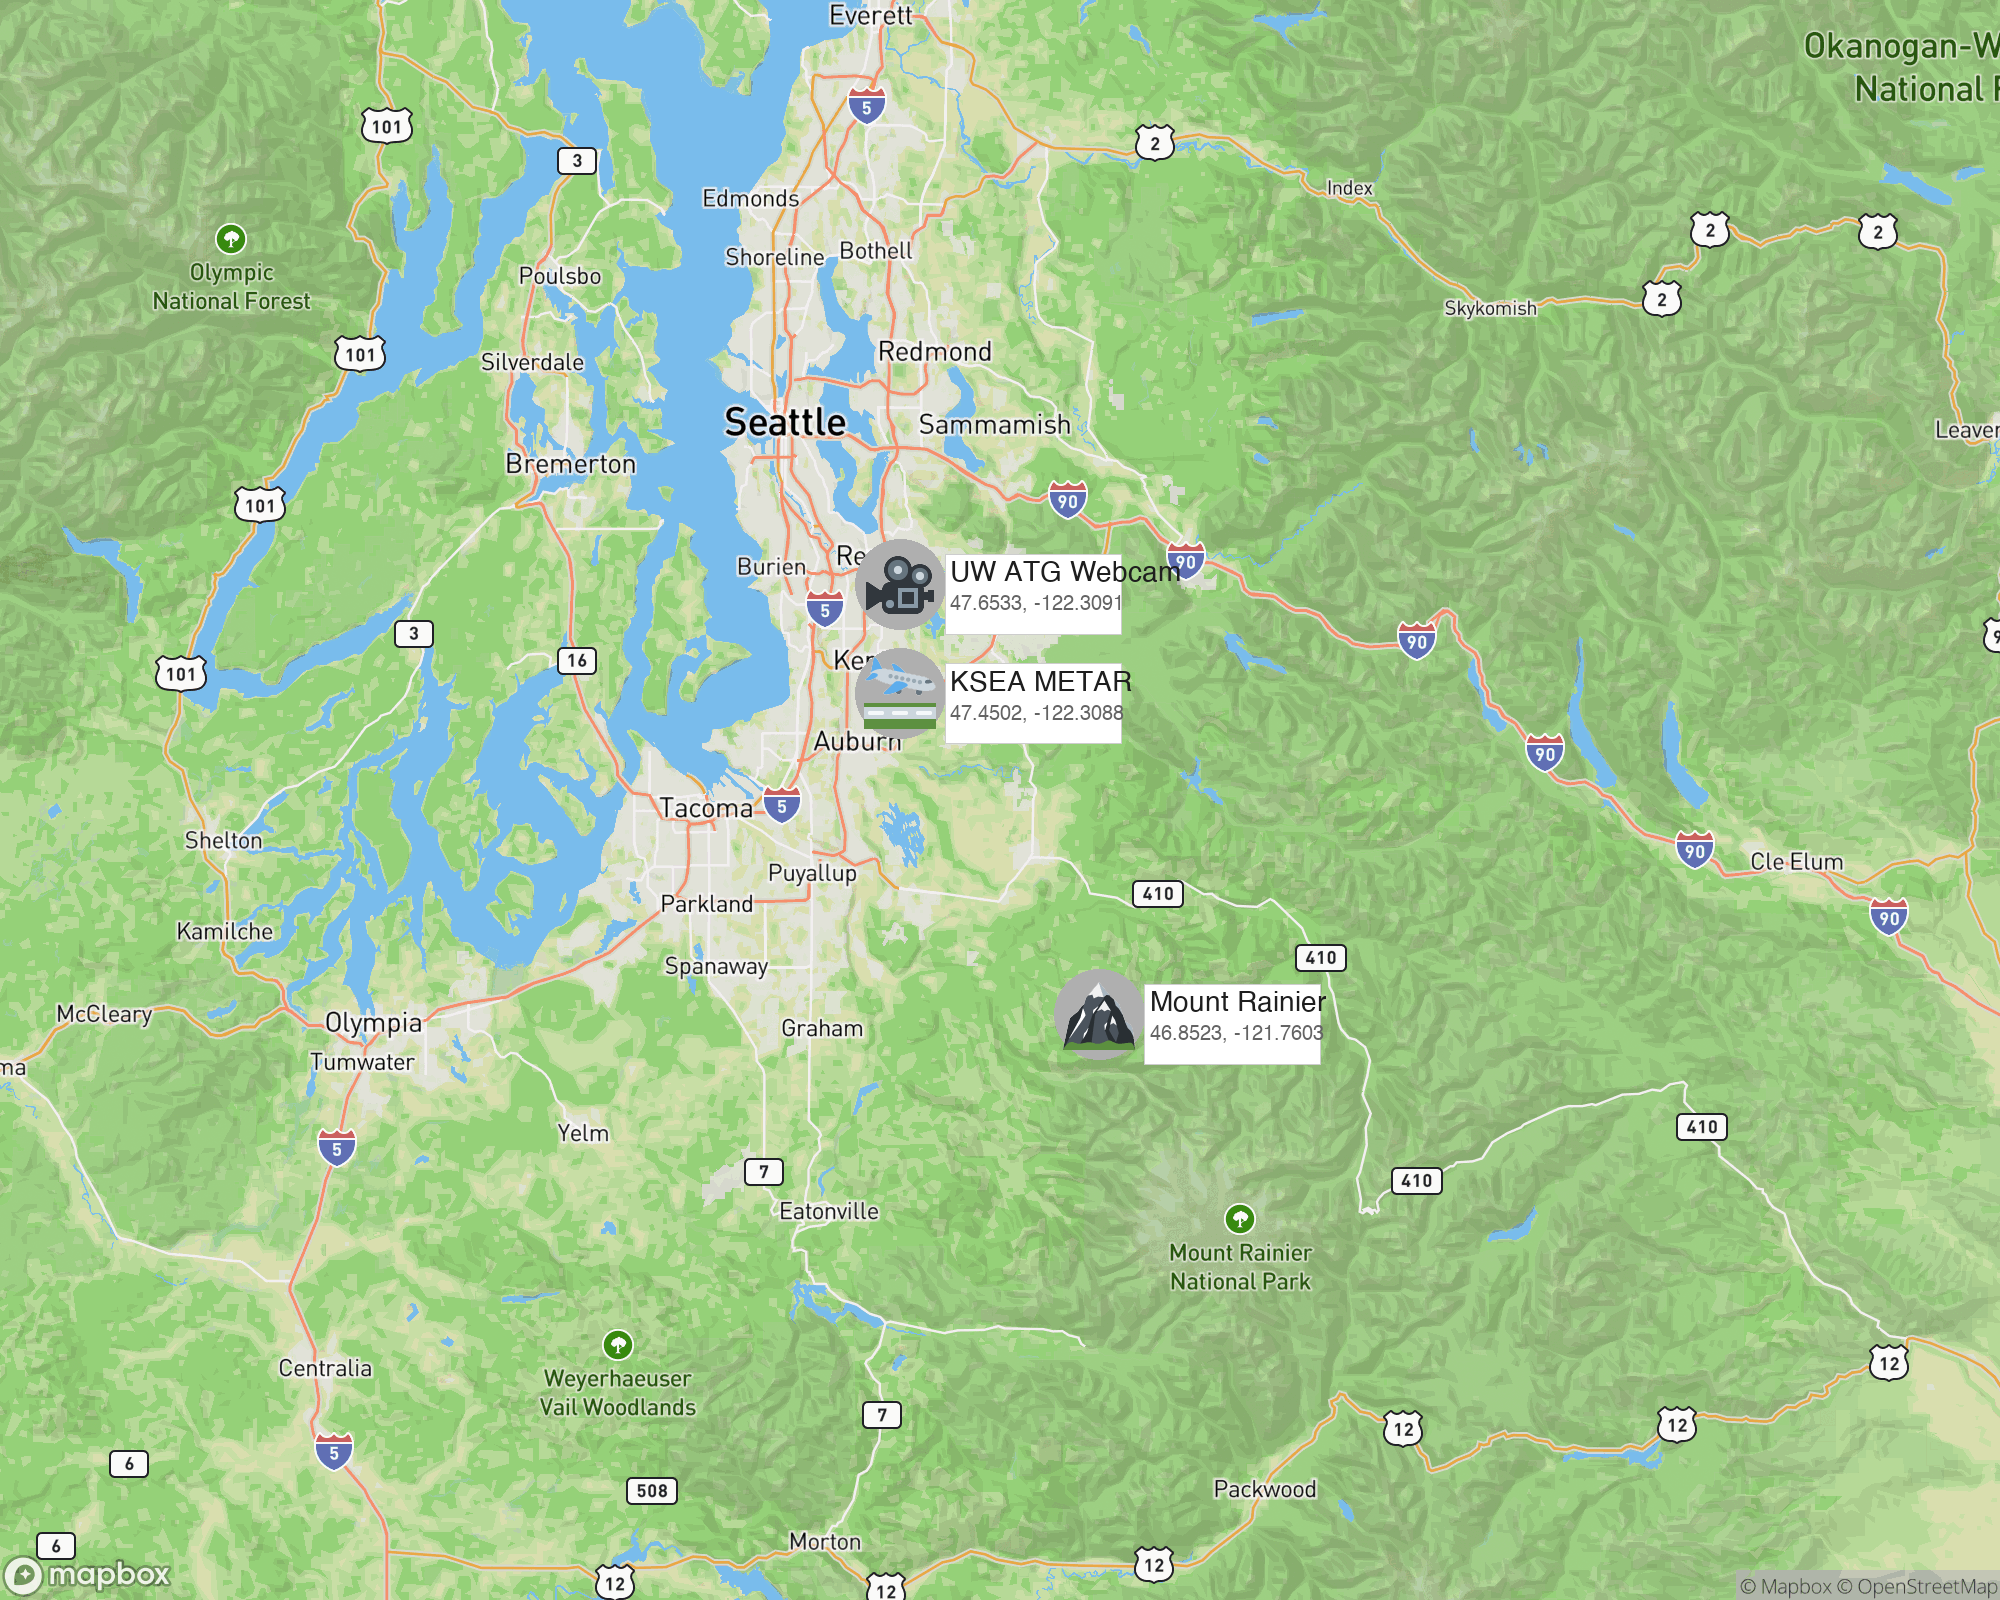
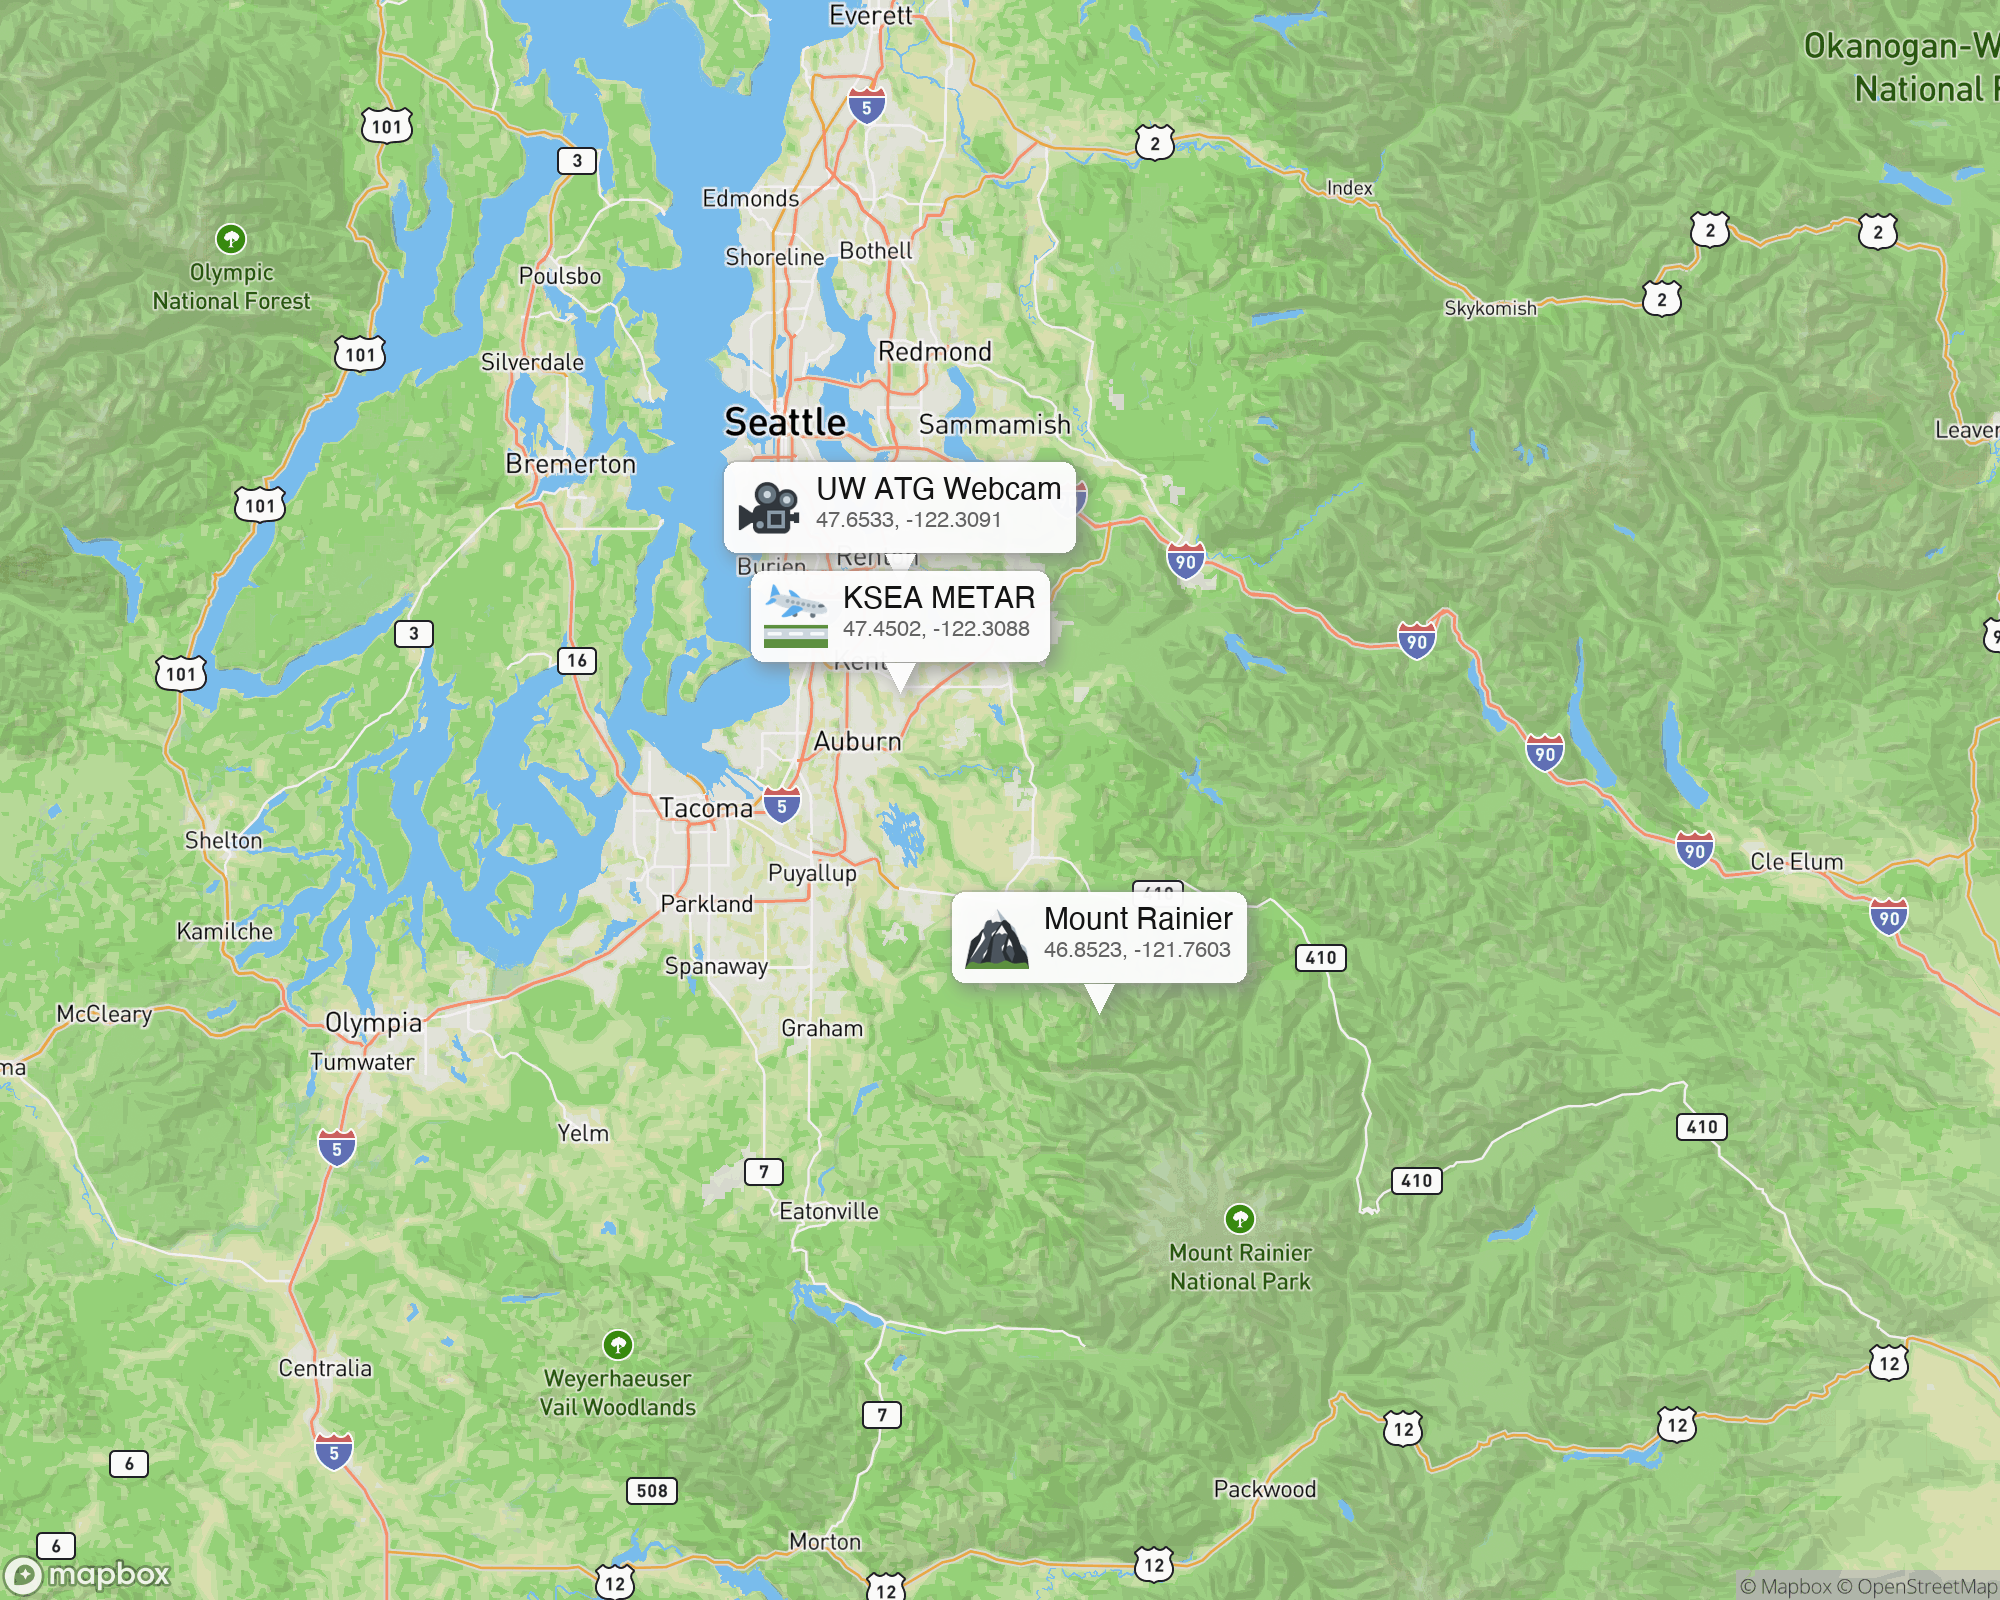
Implement unified callout design with Gaussian-blurred drop shadows

Changed region(s): [[0.341, 0.2812, 0.589, 0.4688], [0.465, 0.5312, 0.682, 0.6875]]

diff --git a/tools/generate_map.py b/tools/generate_map.py
@@ -3,110 +3,106 @@ import tomllib
 import math
 import io
 from pathlib import Path
-from PIL import Image, ImageDraw, ImageFont
+from PIL import Image, ImageDraw, ImageFont, ImageFilter
 
 # Geographic to Pixel Projection (Web Mercator)
 def lat_lon_to_pixel(lat, lon, center_lat, center_lon, zoom, width, height):
-    # Standard Web Mercator constants
     map_width = 256 * (2 ** zoom)
-    
-    def get_x(l):
-        return (l + 180) * (map_width / 360)
-    
+    def get_x(l): return (l + 180) * (map_width / 360)
     def get_y(l):
         lat_rad = math.radians(l)
         return (map_width / (2 * math.pi)) * (math.pi - math.log(math.tan(math.pi / 4 + lat_rad / 2)))
+    
+    center_x, center_y = get_x(center_lon), get_y(center_lat)
+    target_x, target_y = get_x(lon), get_y(lat)
+    
+    return (target_x - center_x) * 2 + (width / 2), (target_y - center_y) * 2 + (height / 2)
 
-    center_x = get_x(center_lon)
-    center_y = get_y(center_lat)
+def draw_callout(draw, img, px, py, emoji_hex, title, subtitle, font_bold, font_small):
+    # 1. Fetch Emoji
+    emoji_url = f"https://cdnjs.cloudflare.com/ajax/libs/twemoji/14.0.2/72x72/{emoji_hex}.png"
+    emoji_img = Image.open(io.BytesIO(requests.get(emoji_url).content)).convert("RGBA").resize((64, 64))
     
-    target_x = get_x(lon)
-    target_y = get_y(lat)
+    # 2. Calculate dimensions
+    title_bbox = draw.textbbox((0, 0), title, font=font_bold)
+    sub_bbox = draw.textbbox((0, 0), subtitle, font=font_small)
+    text_w = max(title_bbox[2], sub_bbox[2])
+    text_h = (title_bbox[3] - title_bbox[1]) + (sub_bbox[3] - sub_bbox[1]) + 5
     
-    # Pixel coordinates relative to center
-    pixel_x = (target_x - center_x) * 2 + (width / 2) # *2 for @2x
-    pixel_y = (target_y - center_y) * 2 + (height / 2)
+    padding = 15
+    box_w = 64 + text_w + (padding * 3)
+    box_h = max(64, text_h) + (padding * 2)
     
-    return pixel_x, pixel_y
+    # Position bubble above the point
+    bx = int(px - box_w / 2)
+    by = int(py - box_h - 30) # 30px offset for pointer
+    
+    # 3. Create Callout + Shadow Layer
+    overlay = Image.new("RGBA", img.size, (0, 0, 0, 0))
+    shadow = Image.new("RGBA", img.size, (0, 0, 0, 0))
+    d_overlay = ImageDraw.Draw(overlay)
+    d_shadow = ImageDraw.Draw(shadow)
+    
+    bubble_shape = [bx, by, bx + box_w, by + box_h]
+    pointer_shape = [(px - 15, by + box_h), (px + 15, by + box_h), (px, py)]
+    
+    # Draw Shadow (Offset and Blurred)
+    shadow_offset = 6
+    s_bx, s_by = bx + shadow_offset, by + shadow_offset
+    d_shadow.rounded_rectangle([s_bx, s_by, s_bx + box_w, s_by + box_h], radius=15, fill=(0, 0, 0, 100))
+    d_shadow.polygon([(p[0] + shadow_offset, p[1] + shadow_offset) for p in pointer_shape], fill=(0, 0, 0, 100))
+    shadow = shadow.filter(ImageFilter.GaussianBlur(radius=8))
+    
+    # Draw Bubble
+    d_overlay.rounded_rectangle(bubble_shape, radius=15, fill=(255, 255, 255, 245), outline=(0, 0, 0, 40), width=2)
+    d_overlay.polygon(pointer_shape, fill=(255, 255, 255, 245), outline=(0, 0, 0, 40))
+    # Fill pointer again to hide the bubble outline overlap
+    d_overlay.polygon(pointer_shape, fill=(255, 255, 255, 245))
+    
+    # 4. Composite and add content
+    img.paste(shadow, (0, 0), shadow)
+    img.paste(overlay, (0, 0), overlay)
+    
+    img.paste(emoji_img, (bx + padding, by + int((box_h - 64)/2)), emoji_img)
+    draw.text((bx + padding + 64 + padding, by + padding), title, font=font_bold, fill=(20, 20, 20))
+    draw.text((bx + padding + 64 + padding, by + padding + 35), subtitle, font=font_small, fill=(100, 100, 100))
 
 def generate_map():
-    # Load config
-    with open("mountain.toml", "rb") as f:
-        config = tomllib.load(f)
-    with open("mapbox.key", "r") as f:
-        token = f.read().strip()
+    with open("mountain.toml", "rb") as f: config = tomllib.load(f)
+    with open("mapbox.key", "r") as f: token = f.read().strip()
 
-    # Settings
-    width, height = 1000, 800
-    zoom = 8
+    width, height, zoom = 1000, 800, 8
     style = "mapbox/outdoors-v12"
     
-    mtn = config['mountain']
-    cam = config['webcam']
-    weather = config['weather']
-    
-    # Calculate center
-    avg_lon = (mtn['longitude'] + cam['longitude']) / 2
-    avg_lat = (mtn['latitude'] + cam['latitude']) / 2
+    mtn, cam, weather = config['mountain'], config['webcam'], config['weather']
+    avg_lon, avg_lat = (mtn['longitude'] + cam['longitude']) / 2, (mtn['latitude'] + cam['latitude']) / 2
 
-    # 1. Download clean background
-    print(f"Fetching clean map background (Zoom {zoom})...")
+    print(f"Fetching map background (Zoom {zoom})...")
     url = f"https://api.mapbox.com/styles/v1/{style}/static/{avg_lon},{avg_lat},{zoom}/{width}x{height}@2x?access_token={token}"
-    headers = {"Referer": "https://tommyroar.github.io"}
-    response = requests.get(url, headers=headers)
-    
-    if response.status_code != 200:
-        print(f"Error: {response.status_code}\n{response.text}")
-        return
+    img_res = requests.get(url, headers={"Referer": "https://tommyroar.github.io"})
+    if img_res.status_code != 200: return print(f"Error: {img_res.status_code}")
 
-    img = Image.open(io.BytesIO(response.content)).convert("RGBA")
+    img = Image.open(io.BytesIO(img_res.content)).convert("RGBA")
     draw = ImageDraw.Draw(img)
     
-    # Load Fonts (macOS paths)
     try:
-        font_bold = ImageFont.truetype("/System/Library/Fonts/Helvetica.ttc", 28)
-        font_small = ImageFont.truetype("/System/Library/Fonts/Helvetica.ttc", 20)
-    except:
-        font_bold = font_small = ImageFont.load_default()
+        font_bold = ImageFont.truetype("/System/Library/Fonts/Helvetica.ttc", 30)
+        font_small = ImageFont.truetype("/System/Library/Fonts/Helvetica.ttc", 22)
+    except: font_bold = font_small = ImageFont.load_default()
 
-    # Targets to draw
     targets = [
-        {"name": "Mount Rainier", "lat": mtn['latitude'], "lon": mtn['longitude'], "hex": "1f3d4", "color": (244, 67, 54)},
-        {"name": "UW ATG Webcam", "lat": cam['latitude'], "lon": cam['longitude'], "hex": "1f3a5", "color": (33, 150, 243)},
-        {"name": "KSEA METAR", "lat": weather['latitude'], "lon": weather['longitude'], "hex": "1f6ec", "color": (76, 175, 80)}
+        {"name": "Mount Rainier", "lat": mtn['latitude'], "lon": mtn['longitude'], "hex": "1f3d4"},
+        {"name": "UW ATG Webcam", "lat": cam['latitude'], "lon": cam['longitude'], "hex": "1f3a5"},
+        {"name": "KSEA METAR", "lat": weather['latitude'], "lon": weather['longitude'], "hex": "1f6ec"}
     ]
 
     for t in targets:
         px, py = lat_lon_to_pixel(t['lat'], t['lon'], avg_lat, avg_lon, zoom, width*2, height*2)
-        
-        # 2. Draw Drop Shadow (Blurred black circle)
-        shadow_size = 45
-        draw.ellipse([px-shadow_size, py-shadow_size, px+shadow_size, py+shadow_size], fill=(0,0,0,80))
-        
-        # 3. Download and Draw Emoji
-        emoji_url = f"https://cdnjs.cloudflare.com/ajax/libs/twemoji/14.0.2/72x72/{t['hex']}.png"
-        e_res = requests.get(emoji_url)
-        if e_res.status_code == 200:
-            emoji_img = Image.open(io.BytesIO(e_res.content)).convert("RGBA")
-            # Resize slightly if needed
-            emoji_img = emoji_img.resize((72, 72))
-            img.paste(emoji_img, (int(px-36), int(py-36)), emoji_img)
+        draw_callout(draw, img, px, py, t['hex'], t['name'], f"{t['lat']:.4f}, {t['lon']:.4f}", font_bold, font_small)
 
-        # 4. Draw Label
-        label_text = f"{t['name']}\n({t['lat']:.3f}, {t['lon']:.3f})"
-        
-        # Background box for readability
-        tw, th = draw.textbbox((0, 0), label_text, font=font_small)[2:]
-        draw.rectangle([px + 45, py - 30, px + 55 + tw, py + 10 + th], fill=(255,255,255,200), outline=(0,0,0,50))
-        
-        # Text
-        draw.text((px + 50, py - 25), t['name'], font=font_bold, fill=(30, 30, 30))
-        draw.text((px + 50, py + 10), f"{t['lat']:.4f}, {t['lon']:.4f}", font=font_small, fill=(100, 100, 100))
-
-    # Save
     Path("assets").mkdir(exist_ok=True)
     img.save("assets/map.png")
-    print("Professionally annotated map saved to assets/map.png")
+    print("Callout-annotated map saved to assets/map.png")
 
 if __name__ == "__main__":
     generate_map()
